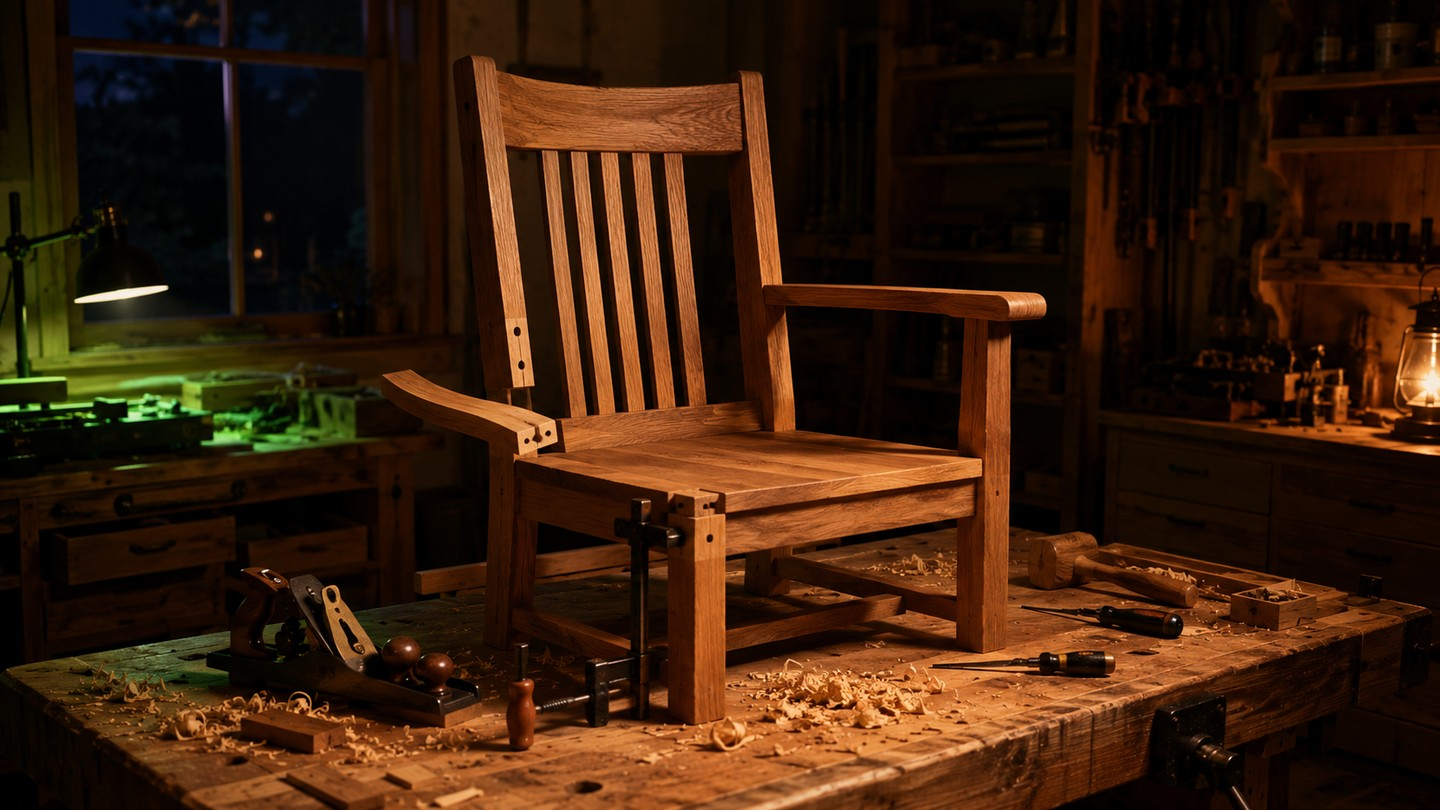
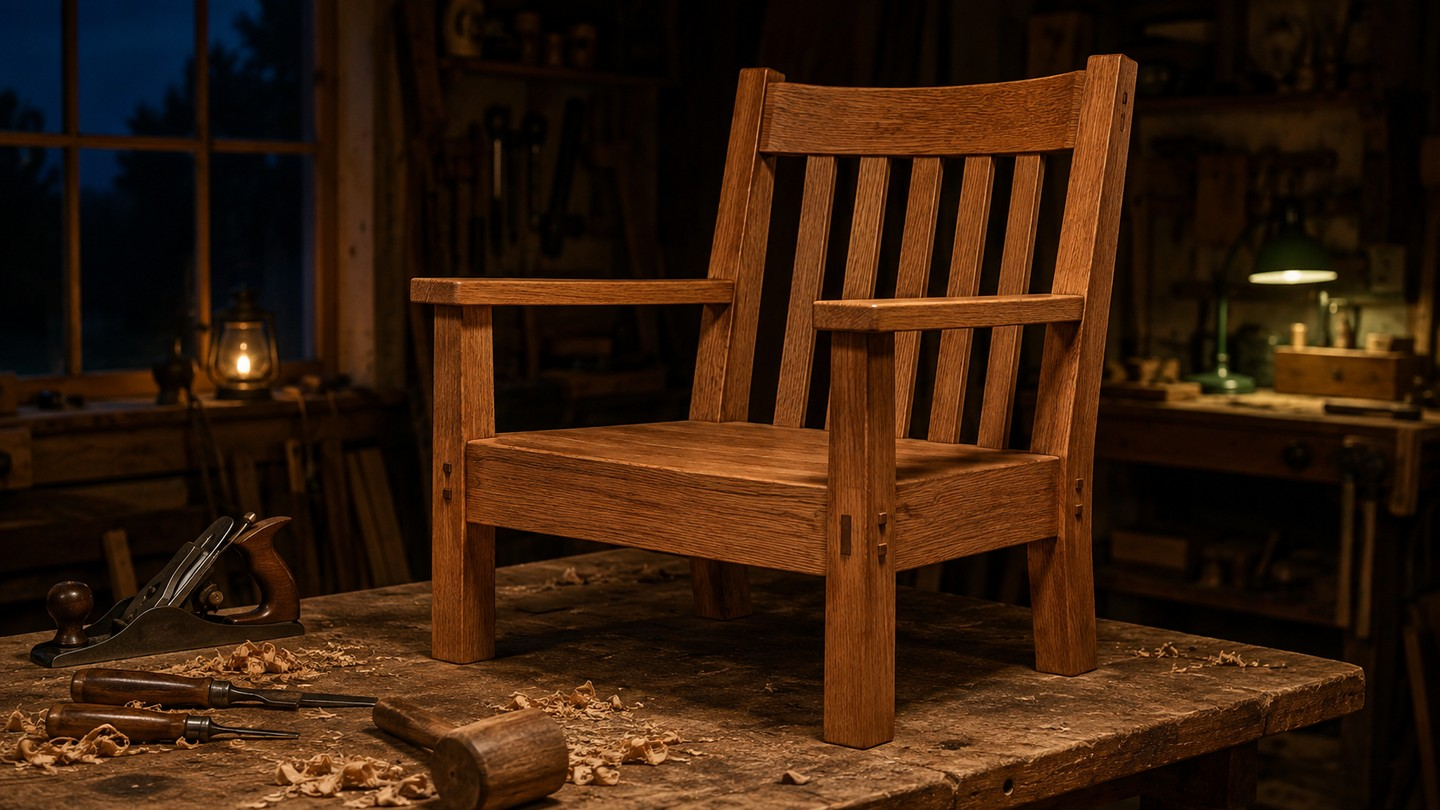
Replace chair hero with corrected joinery, update alt text

diff --git a/building-a-seat-at-the-table.html b/building-a-seat-at-the-table.html
@@ -124,7 +124,7 @@
 
   <article>
     <figure class="shot" style="max-width:640px">
-      <img src="chair.jpg" alt="A sturdy wooden chair mid-assembly on a workbench in a dim home workshop at night, clamps and hand tools laid out, warm lamp light with a faint terminal-green glow" loading="lazy" width="1440" height="810" />
+      <img src="chair.jpg" alt="A finished oak Arts and Crafts armchair standing on a heavy workbench in a dim home workshop at night, a hand plane, chisels, a mallet and wood shavings on the bench, warm lamplight with an oil lantern by the window and a green shaded lamp in the background" loading="lazy" width="1440" height="810" />
       <figcaption><span class="g">&gt;</span> built, not granted_</figcaption>
     </figure>
 

diff --git a/index.html b/index.html
@@ -595,7 +595,7 @@ text-shadow:0 0 12px rgba(63,185,80,.4)}
       <a href="https://github.com/KensDen/kensden.github.io" target="_blank" rel="noopener">source ·&gt;</a>
     </div>
     <p class="sign"><span class="green">root@KensDen</span>:~# <span style="color:var(--ink)">logout</span> — thanks for stopping by 👋</p>
-    <p class="updated">last updated: <span id="last-updated">2026-08-09</span></p>
+    <p class="updated">last updated: <span id="last-updated">2026-08-10</span></p>
     <p class="future-line">&gt; hello future<span class="u">_</span></p>
   </footer>
 
